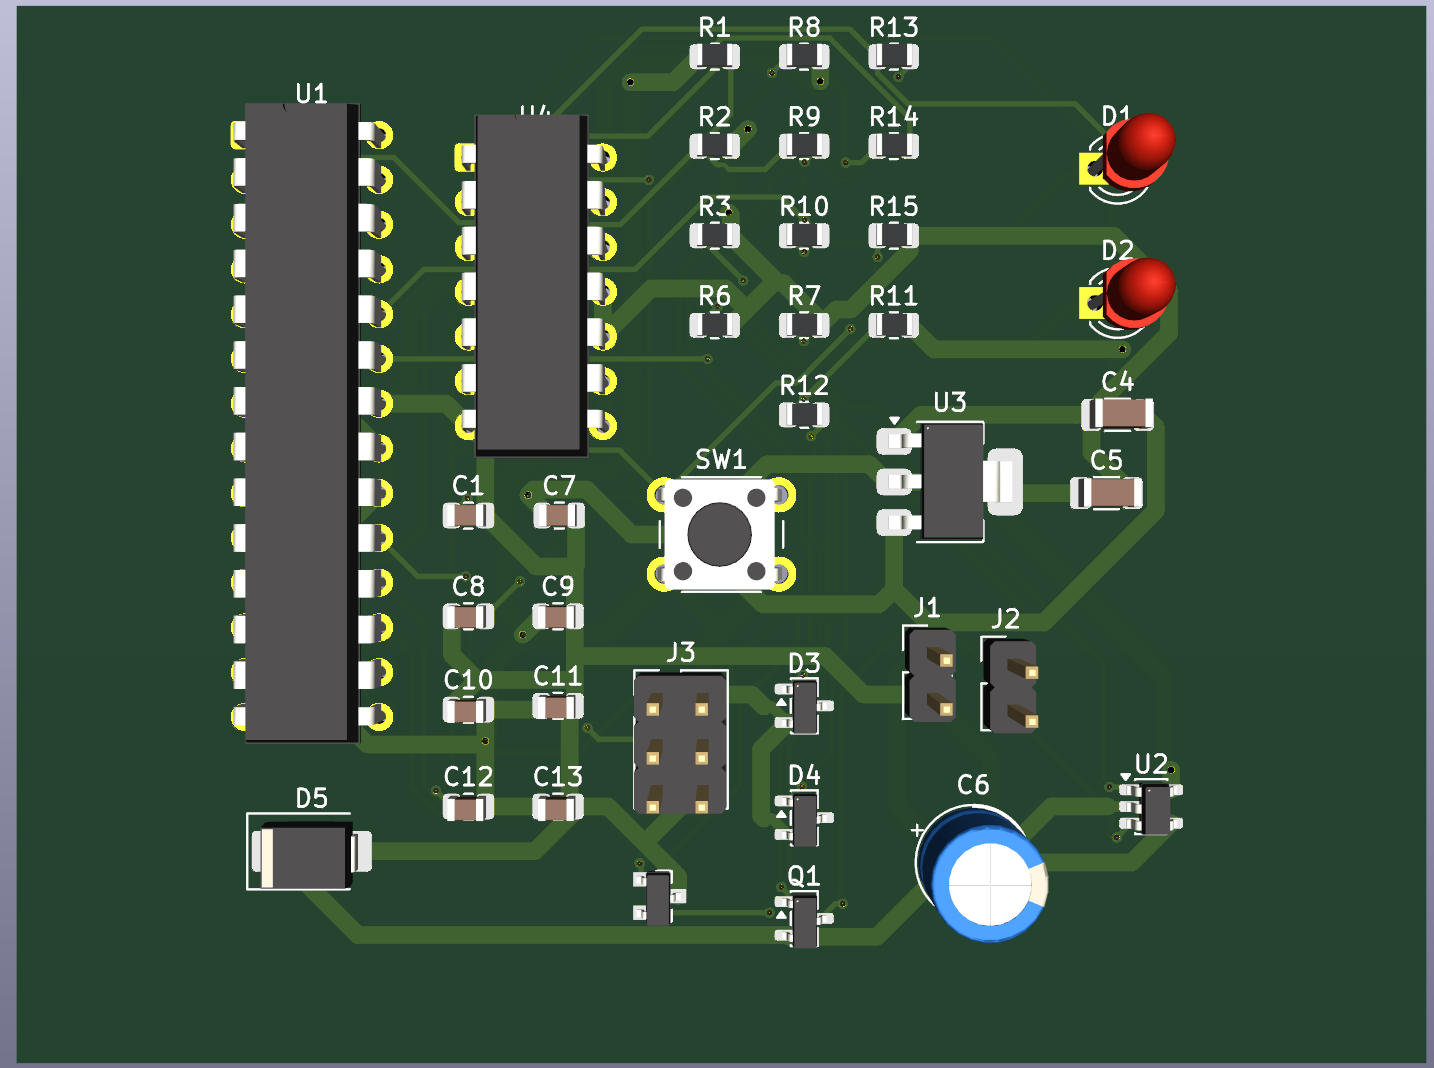
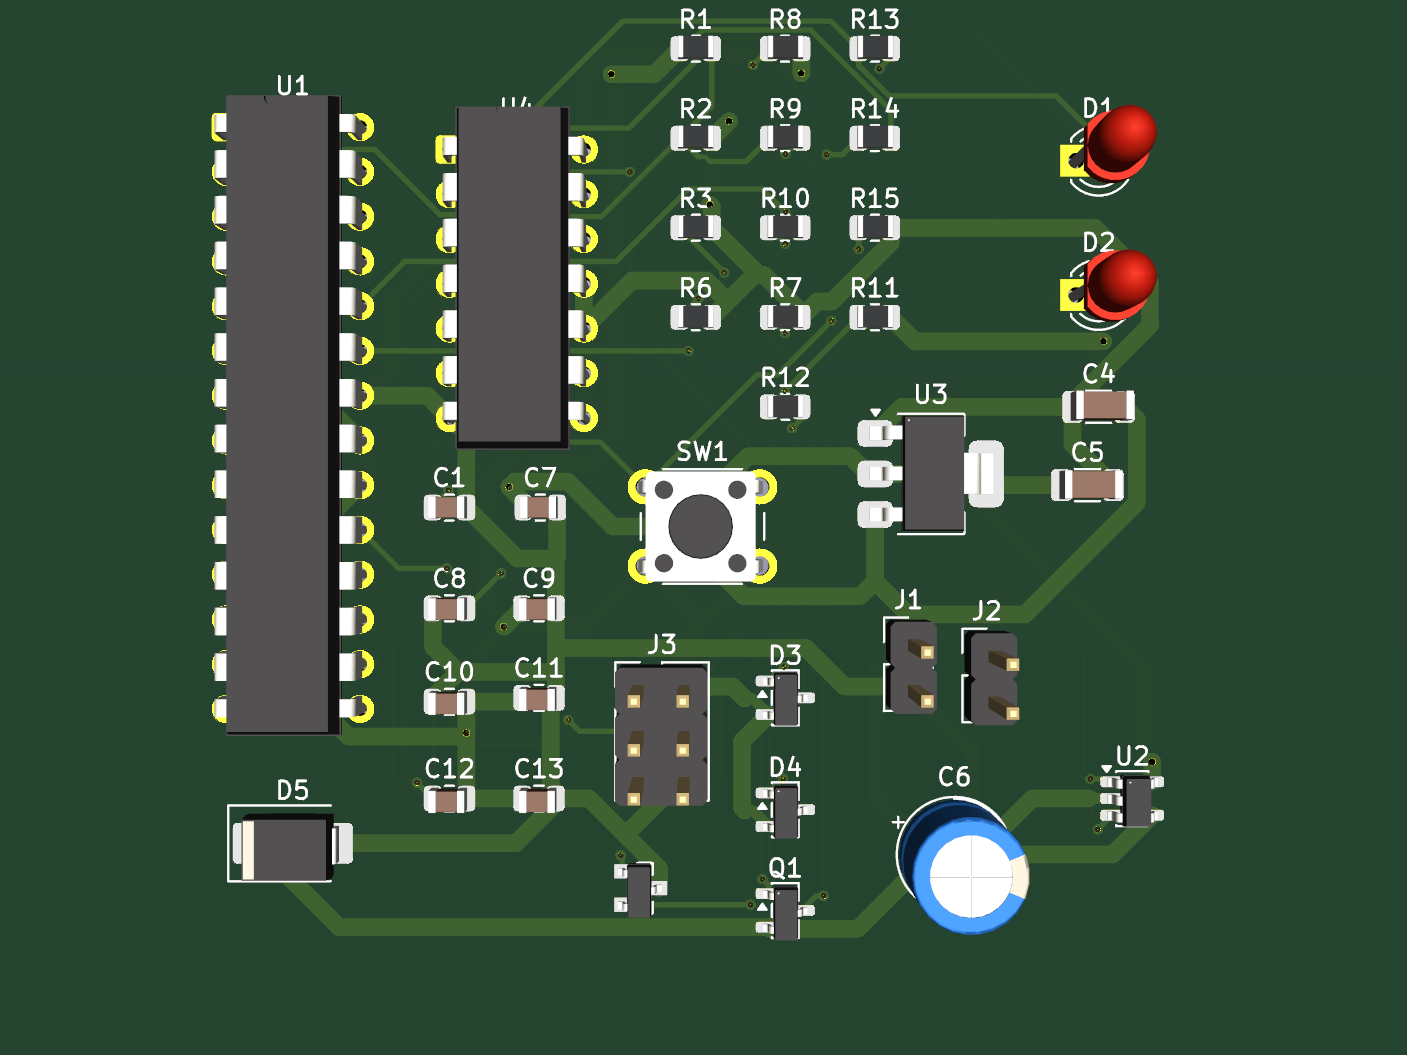
docs: update 3D PCB render and center image in README

diff --git a/README.md b/README.md
@@ -2,7 +2,9 @@
 
 An open-source hardware fault detector designed to monitor voltage and current in smart grid applications. Powered by an ATmega328P microcontroller, this board detects grid anomalies and isolates loads using a hardware-latched P-Channel MOSFET load switch, ensuring microsecond-level response times to overcurrent or fault conditions.
 
-![Smart Grid Fault Detector 3D Render](docs/pcb_3D.png)
+<p align="center">
+  <img src="docs/pcb_3D.png" alt="Smart Grid Fault Detector 3D Render" width="800">
+</p>
 
 ## Key Features
 
